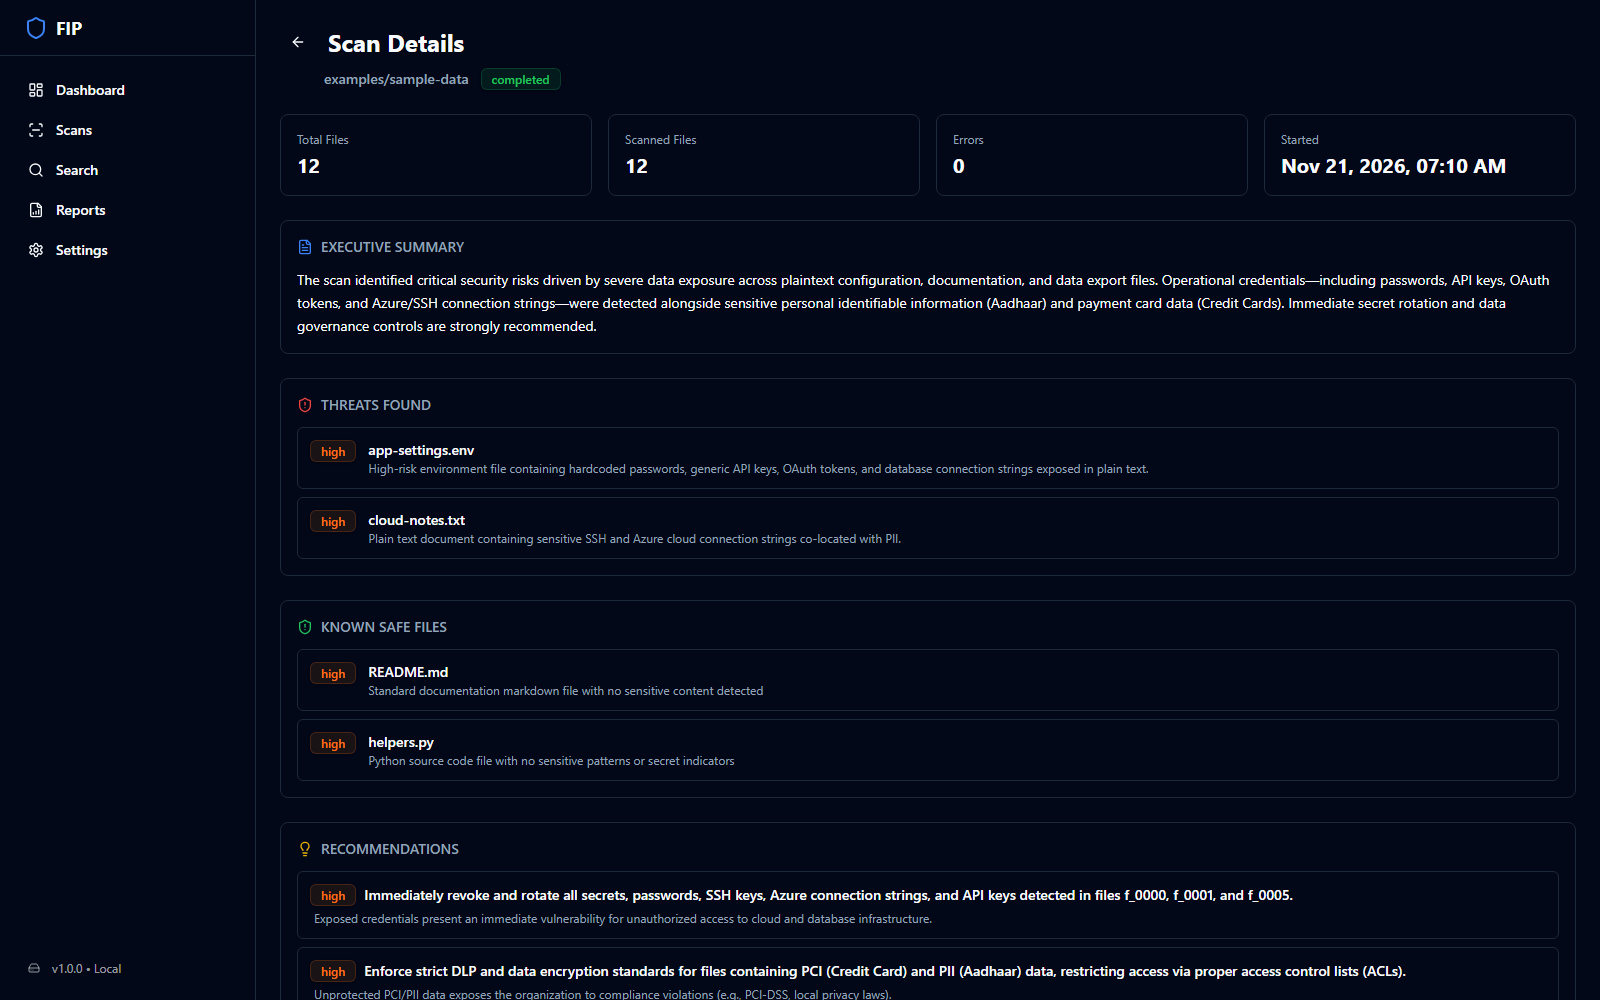
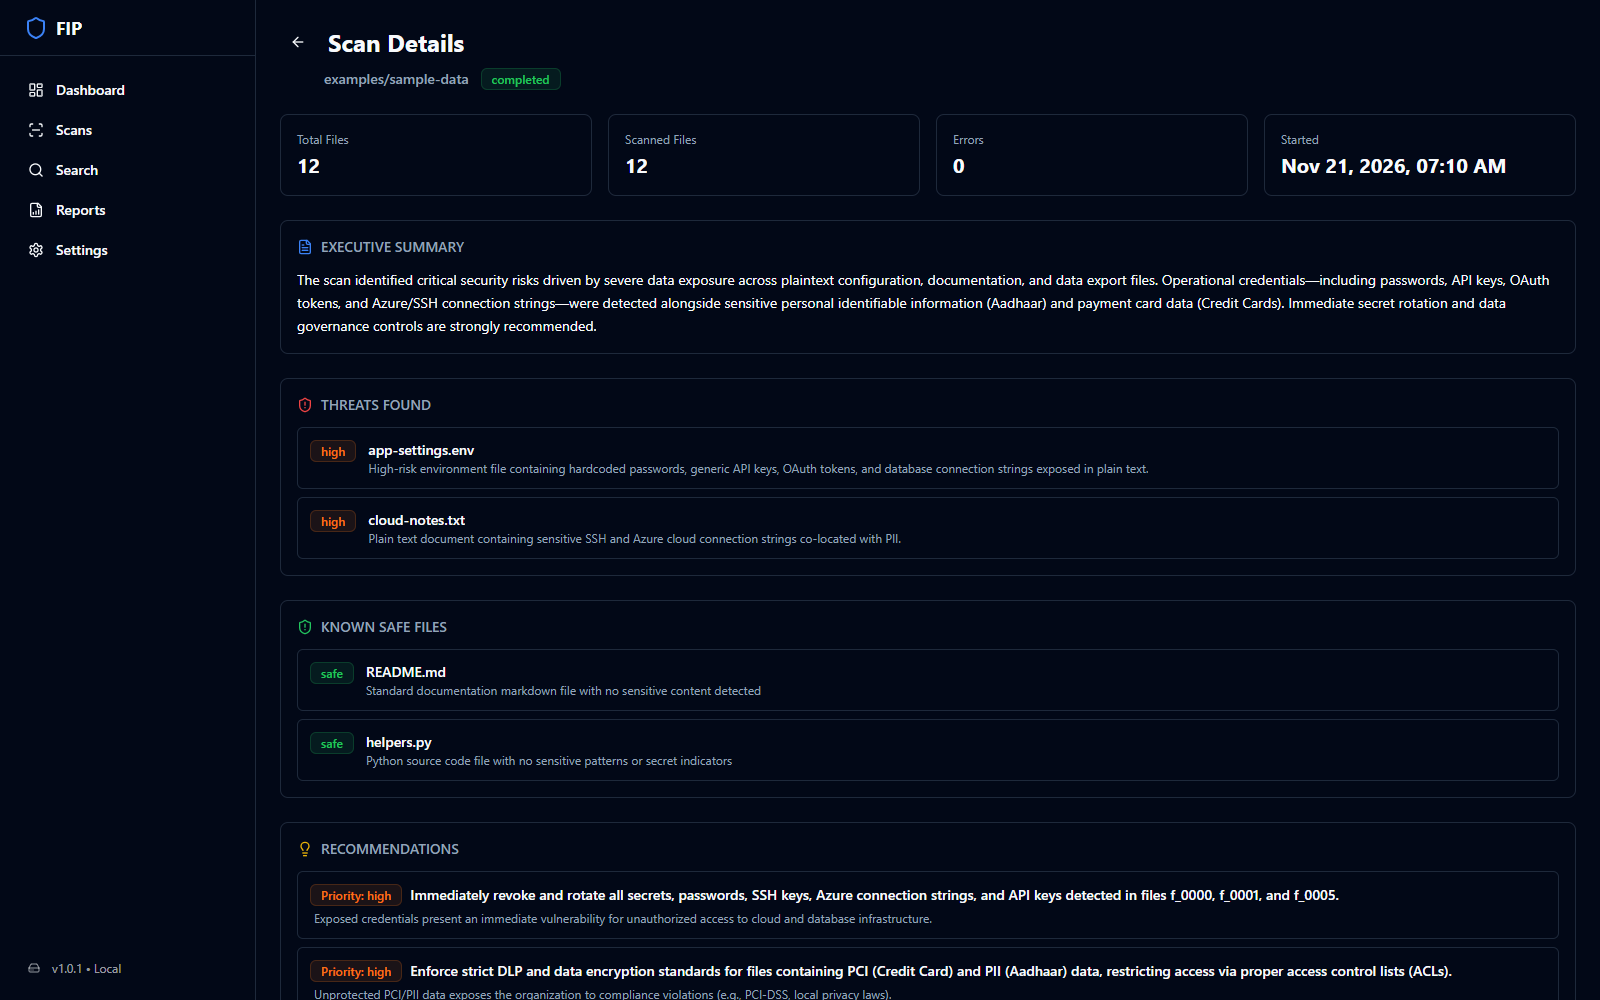
Fix dashboard category totals and insight badges
Every indexed file now receives a category, including files whose analyzer
returns no content, and both dashboard category series come from the same
rows. Known-safe insights no longer use threat severity colors, and the
README gains a recorded walkthrough GIF.

Changed region(s): [[0.1875, 0.961, 0.9062, 0.992], [0.2188, 0.868, 0.8438, 0.93], [0.1875, 0.651, 0.4688, 0.775]]

diff --git a/frontend/src/pages/Dashboard.tsx b/frontend/src/pages/Dashboard.tsx
@@ -146,7 +146,7 @@ export default function Dashboard() {
           {/* File Types Bar Chart */}
           <div className="rounded-lg border border-border bg-card p-4">
             <h3 className="mb-4 text-sm font-medium text-muted-foreground uppercase">
-              Files by Type
+              Files by Category
             </h3>
             <ResponsiveContainer width="100%" height={280}>
               <BarChart data={dist.file_types.filter(d => d.value > 0)}>
@@ -186,35 +186,9 @@ export default function Dashboard() {
             </ResponsiveContainer>
           </div>
 
-          {/* Category Pie Chart */}
-          {dist.categories.length > 0 && (
-            <div className="rounded-lg border border-border bg-card p-4">
-              <h3 className="mb-4 text-sm font-medium text-muted-foreground uppercase">
-                File Categories
-              </h3>
-              <ResponsiveContainer width="100%" height={280}>
-                <PieChart>
-                  <Pie
-                    data={dist.categories}
-                    cx="50%"
-                    cy="50%"
-                    outerRadius={100}
-                    dataKey="value"
-                    label={({ name, value }) => `${name}: ${value}`}
-                  >
-                    {dist.categories.map((_, i) => (
-                      <Cell key={i} fill={COLORS[i % COLORS.length]} />
-                    ))}
-                  </Pie>
-                  <Tooltip />
-                </PieChart>
-              </ResponsiveContainer>
-            </div>
-          )}
-
           {/* Top Extensions Bar Chart */}
           {dist.extensions.length > 0 && (
-            <div className="rounded-lg border border-border bg-card p-4">
+            <div className="rounded-lg border border-border bg-card p-4 lg:col-span-2">
               <h3 className="mb-4 text-sm font-medium text-muted-foreground uppercase">
                 Top Extensions
               </h3>

diff --git a/frontend/src/pages/ScanDetail.tsx b/frontend/src/pages/ScanDetail.tsx
@@ -168,8 +168,8 @@ export default function ScanDetail() {
           <div className="space-y-2">
             {safeFiles.map((s, i) => (
               <div key={i} className="flex items-start gap-3 rounded-md border border-border p-3">
-                <Badge className={severityColors[s.confidence] || ""}>
-                  {s.confidence}
+                <Badge className="bg-green-500/10 text-green-500 border-green-500/20">
+                  safe
                 </Badge>
                 <div>
                   <div className="text-sm font-medium">{s.id}</div>
@@ -192,7 +192,7 @@ export default function ScanDetail() {
               <div key={i} className="rounded-md border border-border p-3">
                 <div className="flex items-center gap-2 mb-1">
                   <Badge className={priorityColors[r.priority] || ""}>
-                    {r.priority}
+                    Priority: {r.priority}
                   </Badge>
                   <span className="text-sm font-medium">{r.recommendation}</span>
                 </div>

diff --git a/frontend/src/components/layout.tsx b/frontend/src/components/layout.tsx
@@ -51,7 +51,7 @@ export function Sidebar() {
       <div className="absolute bottom-4 left-4 right-4">
         <div className="flex items-center gap-3 rounded-lg px-3 py-2 text-xs text-sidebar-foreground/60">
           <HardDrive className="h-3 w-3" />
-          <span>v1.0.0 • Local</span>
+          <span>v1.0.1 • Local</span>
         </div>
       </div>
     </aside>

diff --git a/backend/app/api/v1/stats.py b/backend/app/api/v1/stats.py
@@ -90,6 +90,13 @@ async def get_distributions(db: AsyncSession = Depends(get_db)):
             .group_by(Ft.category).order_by(func.count(Ft.file_id).desc())
         )).all()
         categories = [{"name": r[0], "value": r[1]} for r in cat_rows]
+        total_files = await _scalar(db, select(func.count(F.id)))
+        categorized = sum(item["value"] for item in categories)
+        if total_files > categorized:
+            # Files indexed before the category backfill existed, or whose
+            # analysis produced no metadata, still belong in the total.
+            categories.append({"name": "Uncategorized", "value": total_files - categorized})
+        categories.sort(key=lambda item: item["value"], reverse=True)
 
         sens_rows = (await db.execute(
             select(Fs.sensitivity_level, func.count(Fs.file_id).label("c"))
@@ -105,21 +112,9 @@ async def get_distributions(db: AsyncSession = Depends(get_db)):
         )).all()
         extensions = [{"name": r[0], "value": r[1]} for r in ext_rows]
 
-        docs = await _scalar(db, select(func.count(F.id)).where(F.extension.in_(DOC_EXTS)))
-        exes = await _scalar(db, select(func.count(F.id)).where(F.extension.in_(EXE_EXTS)))
-        code = await _scalar(db, select(func.count(F.id)).where(F.extension.in_(CODE_EXTS)))
-        images = await _scalar(db, select(func.count(F.id)).where(F.extension.in_(IMAGE_EXTS)))
-        media = await _scalar(db, select(func.count(F.id)).where(F.extension.in_(MEDIA_EXTS)))
-        archives = await _scalar(db, select(func.count(F.id)).where(F.extension.in_(ARCHIVE_EXTS)))
-
-        return categories, sensitivity, extensions, [
-            {"name": "Documents", "value": docs},
-            {"name": "Executables", "value": exes},
-            {"name": "Source Code", "value": code},
-            {"name": "Images", "value": images},
-            {"name": "Media", "value": media},
-            {"name": "Archives", "value": archives},
-        ]
+        # The dashboard shows one category breakdown. Deriving both series from
+        # the same rows keeps the card, the chart, and the file total in sync.
+        return categories, sensitivity, extensions, categories
 
     try:
         categories, sensitivity, extensions, ft = await _run()

diff --git a/backend/tests/test_stats.py b/backend/tests/test_stats.py
@@ -1,0 +1,41 @@
+from __future__ import annotations
+
+import pytest
+from httpx import ASGITransport, AsyncClient
+
+from app.core.database import async_session_factory, init_db
+from app.main import app
+from app.models.file import FileRecord
+
+
+@pytest.fixture(autouse=True)
+async def setup_db():
+    await init_db()
+
+
+@pytest.mark.asyncio
+async def test_distributions_account_for_every_file():
+    async with async_session_factory() as db:
+        db.add_all(
+            [
+                FileRecord(path="/tmp/fip-stats-a.txt", name="a.txt", extension=".txt", size=1),
+                FileRecord(path="/tmp/fip-stats-b.bin", name="b.bin", extension=".bin", size=1),
+            ]
+        )
+        await db.commit()
+
+    transport = ASGITransport(app=app)
+    async with AsyncClient(transport=transport, base_url="http://test") as client:
+        summary = (await client.get("/api/v1/stats/summary")).json()
+        response = await client.get("/api/v1/stats/distributions")
+
+    assert response.status_code == 200
+    body = response.json()
+    total = summary["total_files"]
+
+    # Both series must cover the same files, and no file may silently vanish
+    # because it had no analyzer result.
+    assert sum(item["value"] for item in body["file_types"]) == total
+    assert sum(item["value"] for item in body["categories"]) == total
+    assert body["file_types"] == body["categories"]
+    assert any(item["name"] == "Uncategorized" and item["value"] >= 2 for item in body["categories"])

diff --git a/backend/app/services/scanner/scan_service.py b/backend/app/services/scanner/scan_service.py
@@ -639,6 +639,32 @@ class ScanService:
         job.progress = 95.0
         await self.db.commit()
 
+        # Every indexed file must have a category, even when no analyzer
+        # produced content (for example, an image format the analyzer cannot
+        # decode). This also repairs files from older scans.
+        uncategorized = (
+            await self.db.execute(
+                select(FileRecord)
+                .outerjoin(FileCategory, FileCategory.file_id == FileRecord.id)
+                .where(FileCategory.file_id.is_(None))
+            )
+        ).scalars().all()
+        if uncategorized:
+            for record in uncategorized:
+                category_name, subcategory_name = _categorize_by_extension(record.path)
+                await self.db.execute(
+                    sqlite_insert(FileCategory)
+                    .values(
+                        file_id=record.id,
+                        category=category_name,
+                        subcategory=subcategory_name,
+                        confidence=1.0,
+                        explanation="Categorized by file extension",
+                    )
+                    .on_conflict_do_nothing(index_elements=["file_id"])
+                )
+            await self.db.commit()
+
         # ── Batch AI analysis ─────────────────────────────────────────────
         if collected_summaries and ai_available:
             try:

diff --git a/backend/app/core/config.py b/backend/app/core/config.py
@@ -20,7 +20,7 @@ class Settings(BaseSettings):
     )
 
     app_name: str = "File Intelligence Platform"
-    app_version: str = "1.0.0"
+    app_version: str = "1.0.1"
     debug: bool = False
 
     database_url: str = "sqlite+aiosqlite:///./data/fip.db"

diff --git a/README.md b/README.md
@@ -15,6 +15,8 @@ have access to.
 
 ![Dashboard](docs/screenshots/dashboard.png)
 
+![Walkthrough: dashboard, scans, scan detail, and reports](docs/screenshots/demo.gif)
+
 ## What you get
 
 - **Recursive scans with control.** Start, pause, resume, and cancel a scan.
@@ -182,7 +184,7 @@ file-intelligence-platform/
 │   │       ├── detector/      # Sensitive-data patterns and risk scoring
 │   │       ├── ai/            # Optional providers and batch insights
 │   │       └── report/        # CSV, HTML, and JSON reports
-│   ├── tests/                 # 21 pytest tests (hermetic temp database)
+│   ├── tests/                 # 22 pytest tests (hermetic temp database)
 │   └── requirements.txt
 ├── frontend/
 │   └── src/                   # React + TypeScript + Tailwind GUI
@@ -235,8 +237,8 @@ cd backend
 python -m pytest -q
 ```
 
-The suite has **21 tests** covering the detector, analyzers, scanner, scan API,
-health endpoint, and AI fallback. It runs against a temporary database, so it
+The suite has **22 tests** covering the detector, analyzers, scanner, scan API,
+statistics, health endpoint, and AI fallback. It runs against a temporary database, so it
 never touches your real data. Lint with `ruff check app tests`.
 
 The frontend is type-checked and built with:

diff --git a/CHANGELOG.md b/CHANGELOG.md
@@ -4,6 +4,20 @@ All notable changes to this project are documented here. The format follows
 [Keep a Changelog](https://keepachangelog.com/en/1.1.0/), and the project uses
 [Semantic Versioning](https://semver.org/spec/v2.0.0.html).
 
+## [1.0.1] - 2026-11-21
+
+### Fixed
+
+- Dashboard category totals now cover every indexed file, including files
+  whose analyzer returned no content (for example, SVG images). The category
+  card and chart share one distribution, so they always add up to the file
+  total.
+- Known-safe AI insights use a neutral green `safe` badge instead of the
+  severity colour reserved for threat findings, and recommendations show
+  their priority explicitly.
+- A scan now backfills a category for any file that has none, which also
+  repairs databases created before this release.
+
 ## [1.0.0] - 2026-11-21
 
 Initial public release.
